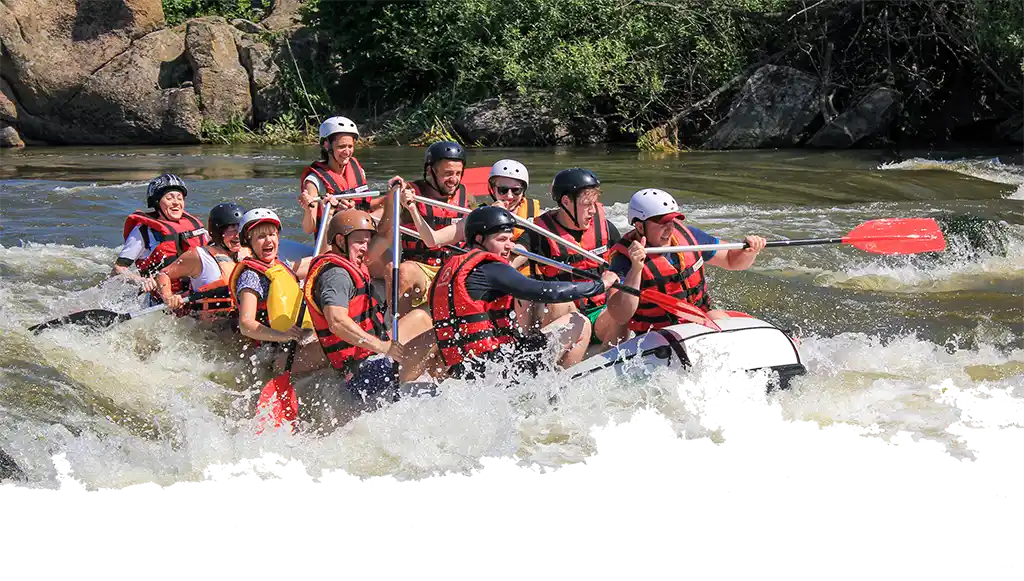
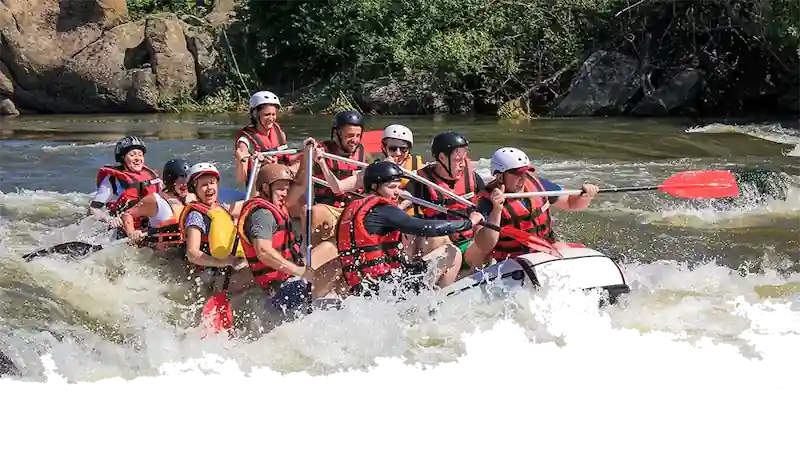
Optimizing images

diff --git a/wwr/about.html b/wwr/about.html
@@ -13,7 +13,7 @@
 </head>
 <body>
     <header>
-        <img src="images/z-splash.png" alt="logo">
+        <img src="images/z-splash.webp" alt="logo">
         <nav class="navigation">
             <a id="home" href="index.html">Home</a>
             <a id="about-us" href="about.html">About Us</a>
@@ -27,7 +27,7 @@
             <h1 class="about-us-h1">Splash White Water Rafting</h1>
         </div>
         <article>
-            <img src="images/rafting59_600.jpg" alt="happy client">
+            <img src="images/rafting59_600.webp" alt="happy client">
             <p>Lorem ipsum dolor sit amet consectetur adipisicing elit. Corporis, dolore quasi! Fugiat iusto sapiente labore, in id ex, eligendi enim totam nesciunt doloribus natus aperiam aspernatur at facere error iure.</p>
         </article>
         <section class="first-section">
@@ -43,7 +43,7 @@
                         <figcaption >The Adventure Amigos</figcaption>
                 </figure>
                 <figure class="figure1">
-                    <img id="image2" src="images/rafting29_600.jpg" alt="clients enjoying rafting">
+                    <img id="image2" src="images/rafting29_600.webp" alt="clients enjoying rafting">
                     <figcaption>Journey Jamboree</figcaption>
                 </figure>
                 <figure class="figure1">
@@ -51,11 +51,11 @@
                     <figcaption>Roaming Rascals</figcaption>
                 </figure>
                 <figure class="figure1">
-                    <img id="image4" src="images/rafting53_600.jpg" alt="clients enjoying rafting">
+                    <img id="image4" src="images/rafting53_600.webp" alt="clients enjoying rafting">
                     <figcaption>The Travel Tribe</figcaption>
                 </figure>
                 <figure class="figure1">
-                    <img id="image5" src="images/rafting58_600.jpg" alt="clients enjoying rafting">
+                    <img id="image5" src="images/rafting58_600.webp" alt="clients enjoying rafting">
                     <figcaption>The Royal Route</figcaption>
                 </figure>
             </figure>

diff --git a/wwr/index.html b/wwr/index.html
@@ -13,7 +13,7 @@
 </head>
 <body>
     <header>
-        <img src="images/z-splash.png" alt="logo">
+        <img src="images/z-splash.webp" alt="logo">
         <nav class="navigation">
             <a id="home" href="index.html">Home</a>
             <a id="about-us" href="about.html">About Us</a>
@@ -40,7 +40,7 @@
         </div>
         <div class="families font">
             <img src="images/family.webp" alt="Family enjoying water rafting">
-            <img src="images/family2.jpg" alt="Family enjoying water rafting">
+            <img src="images/family2.webp" alt="Family enjoying water rafting">
             <p>Lorem ipsum dolor sit amet consectetur, adipisicing elit. Adipisci earum quidem recusandae facilis totam et, odit laborum suscipit harum incidunt nesciunt illum deserunt dolore unde ut neque culpa, consequatur quae.</p>
             <p>Lorem ipsum dolor sit amet consectetur, adipisicing elit. Facere architecto consequuntur explicabo quasi magnam est et, odio iste voluptas dicta aperiam reprehenderit ducimus omnis cupiditate blanditiis unde repellendus iusto neque?</p>
         </div>

diff --git a/wwr/trips.html b/wwr/trips.html
@@ -13,7 +13,7 @@
     </head>
 <body>
     <header>
-        <img src="images/z-splash.png" alt="logo">
+        <img src="images/z-splash.webp" alt="logo">
         <nav class="navigation">
             <a id="home" href="index.html">Home</a>
             <a id="about-us" href="about.html">About Us</a>
@@ -27,7 +27,7 @@
         </div>
         <div class="trips">
             <img src="images/rafting17_600.webp" alt="The Adventure Amigos trip">
-            <img src="images/rafting29_600.jpg" alt="Journey Jamboree trip">
+            <img src="images/rafting29_600.webp" alt="Journey Jamboree trip">
             <img src="images/rafting47_600.webp" alt="Roaming Rascals trip">
             <h2>The Adventure Amigos</h2>
             <h2>Journey Jamboree</h2>

diff --git a/wwr/contact.html b/wwr/contact.html
@@ -13,7 +13,7 @@
 </head>
 <body>
     <header>
-        <img src="images/z-splash.png" alt="logo">
+        <img src="images/z-splash.webp" alt="logo">
         <nav class="navigation">
             <a id="home" href="index.html">Home</a>
             <a id="about-us" href="about.html">About Us</a>
